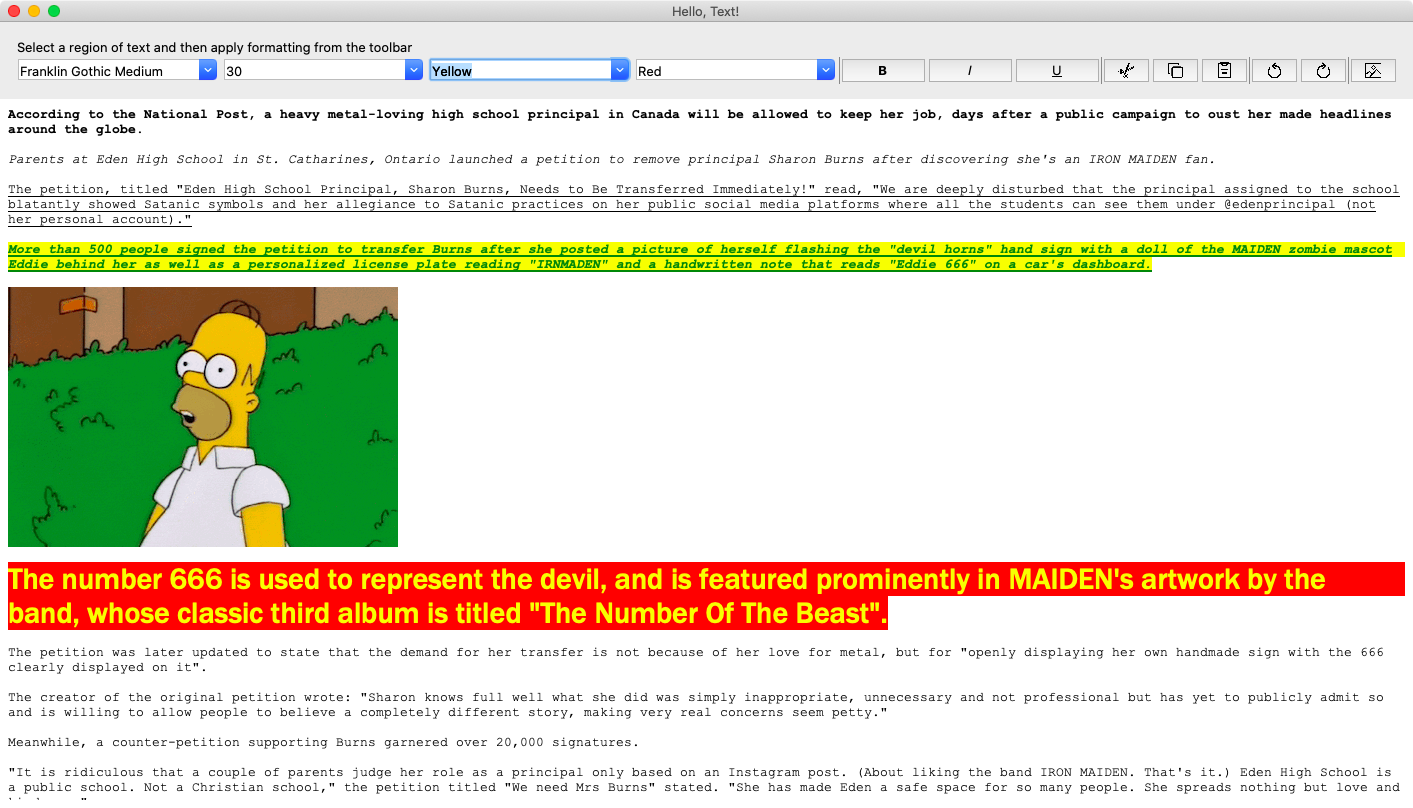
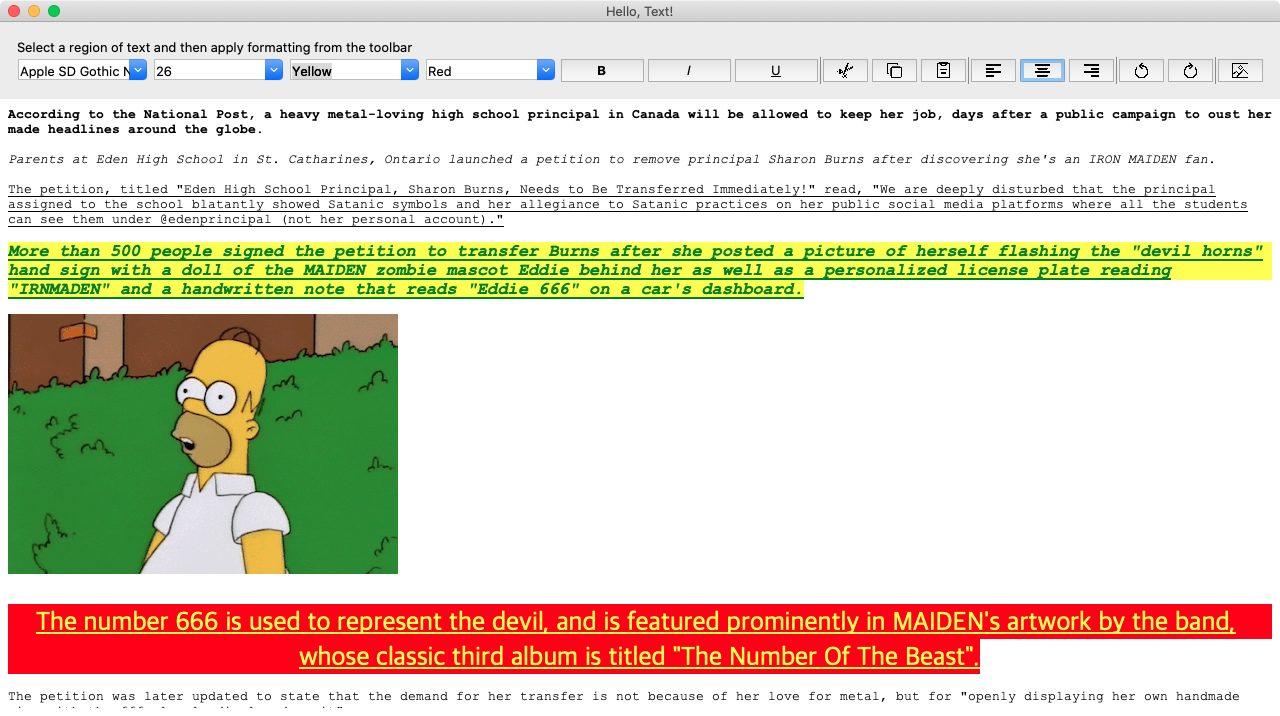
Improve Hello, Text! (toolbar buttons: justify left, justify center, justify right)

diff --git a/samples/hello/hello_text.rb b/samples/hello/hello_text.rb
@@ -93,6 +93,8 @@ class HelloText
   def launch
     root {
       title 'Hello, Text!'
+      width 1280
+      height 800
       
       frame {
         grid row: 0, column: 0
@@ -192,6 +194,38 @@ class HelloText
           
           on('command') do
             @text.text_paste
+          end
+        }
+        
+        separator {
+          grid row: 1, column: column_index += 1, column_weight: 0
+          orient 'vertical'
+        }
+        
+        button {
+          grid row: 1, column: column_index += 1, column_weight: 0
+          image File.expand_path("images/align-left.png", __dir__), subsample: 32
+          
+          on('command') do
+            @text.add_selection_format('justify', 'left')
+          end
+        }
+        
+        button {
+          grid row: 1, column: column_index += 1, column_weight: 0
+          image File.expand_path("images/align-center.png", __dir__), subsample: 32
+          
+          on('command') do
+            @text.add_selection_format('justify', 'center')
+          end
+        }
+        
+        button {
+          grid row: 1, column: column_index += 1, column_weight: 0
+          image File.expand_path("images/align-right.png", __dir__), subsample: 32
+          
+          on('command') do
+            @text.add_selection_format('justify', 'right')
           end
         }
         

diff --git a/README.md b/README.md
@@ -1,4 +1,4 @@
-# [<img src="https://raw.githubusercontent.com/AndyObtiva/glimmer/master/images/glimmer-logo-hi-res.png" height=85 />](https://github.com/AndyObtiva/glimmer) Glimmer DSL for Tk 0.0.29
+# [<img src="https://raw.githubusercontent.com/AndyObtiva/glimmer/master/images/glimmer-logo-hi-res.png" height=85 />](https://github.com/AndyObtiva/glimmer) Glimmer DSL for Tk 0.0.30
 ## MRI Ruby Desktop Development GUI Library
 [![Gem Version](https://badge.fury.io/rb/glimmer-dsl-tk.svg)](http://badge.fury.io/rb/glimmer-dsl-tk)
 [![Ruby](https://github.com/AndyObtiva/glimmer-dsl-tk/actions/workflows/ruby.yml/badge.svg)](https://github.com/AndyObtiva/glimmer-dsl-tk/actions/workflows/ruby.yml)
@@ -157,7 +157,7 @@ gem install glimmer-dsl-tk
 
 Add the following to `Gemfile`:
 ```
-gem 'glimmer-dsl-tk', '~> 0.0.29'
+gem 'glimmer-dsl-tk', '~> 0.0.30'
 ```
 
 And, then run:
@@ -1947,6 +1947,8 @@ class HelloText
   def launch
     root {
       title 'Hello, Text!'
+      width 1280
+      height 800
       
       frame {
         grid row: 0, column: 0
@@ -2046,6 +2048,38 @@ class HelloText
           
           on('command') do
             @text.text_paste
+          end
+        }
+        
+        separator {
+          grid row: 1, column: column_index += 1, column_weight: 0
+          orient 'vertical'
+        }
+        
+        button {
+          grid row: 1, column: column_index += 1, column_weight: 0
+          image File.expand_path("images/align-left.png", __dir__), subsample: 32
+          
+          on('command') do
+            @text.add_selection_format('justify', 'left')
+          end
+        }
+        
+        button {
+          grid row: 1, column: column_index += 1, column_weight: 0
+          image File.expand_path("images/align-center.png", __dir__), subsample: 32
+          
+          on('command') do
+            @text.add_selection_format('justify', 'center')
+          end
+        }
+        
+        button {
+          grid row: 1, column: column_index += 1, column_weight: 0
+          image File.expand_path("images/align-right.png", __dir__), subsample: 32
+          
+          on('command') do
+            @text.add_selection_format('justify', 'right')
           end
         }
         

diff --git a/TODO.md b/TODO.md
@@ -2,7 +2,6 @@
 
 ## Next
 
-- Improve Hello, Text! (toolbar buttons: justify left, justify center, justify right)
 - Improve Hello, Text! (toolbar buttons: find dialog)
 - `text` widget Find dialog: show find dialog with a text field, case-sensitive checkbox, regex checkbox, and buttons for next and previous + rely on text#tk#search method to search in selection or all document
 - Hello, Toplevel! (Custom Window and Custom Dialog)

diff --git a/CHANGELOG.md b/CHANGELOG.md
@@ -2,6 +2,7 @@
 
 ## 0.0.30
 
+- Improve Hello, Text! (toolbar buttons: justify left, justify center, justify right)
 - Fixed Hello, Built-in Dialog! Font Dialog issue
 
 ## 0.0.29
